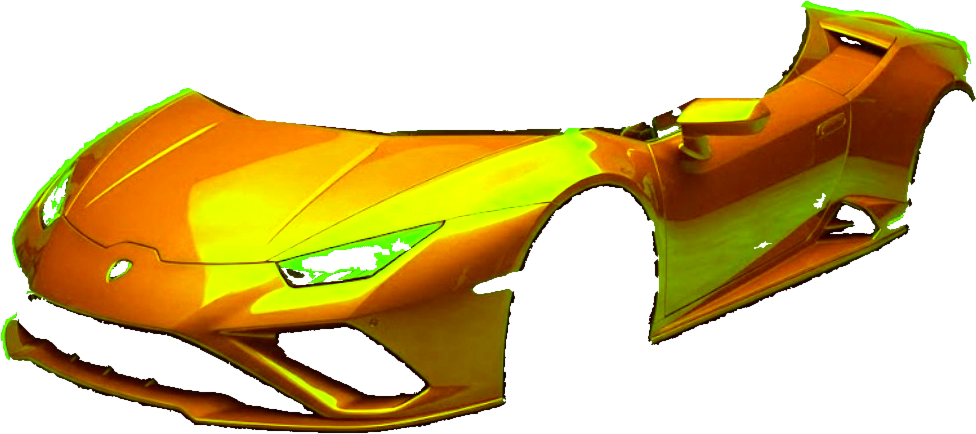
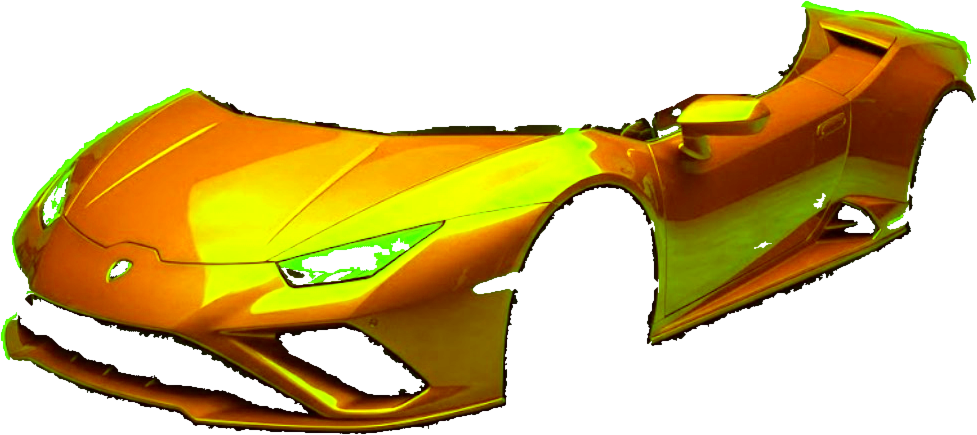
Wrap: Volvo XC40 as the SUV; clean Huracan windshield-base and mirror edges
Claude-Session: https://claude.ai/code/session_01TC8hHsQGEZ2GaHBM8k3cGS

diff --git a/main.js b/main.js
@@ -36,7 +36,7 @@ function arrowNav(buttons, select) {
 // box = where the shade layer sits in the photo: [x, y, width, height]; size defaults to 1200x900.
 // Bump ASSET_V whenever a photo or shade layer changes, so phones never pair a cached old
 // photo with a new shade layer (that is what makes the repaint look shifted).
-const ASSET_V = '20261109s';
+const ASSET_V = '20261109t';
 const toLin = v => Math.pow(v / 255, 2.2);
 const hexLin = h => { const n = parseInt(h.replace('#', ''), 16); return [n >> 16 & 255, n >> 8 & 255, n & 255].map(toLin); };
 const FIN = { gloss: [1, 1], satin: [0.8, 0.4], matte: [0.6, 0.12] };   // lighting contrast, shine kept
@@ -210,9 +210,9 @@ const wrapPaint = createPainter({
   view: document.getElementById('wrap-view'), img: document.getElementById('wrap-img'), canvas: document.getElementById('wrap-paint'),
   stage: document.getElementById('wrap-stage'), initial: 'sports', color: '#C8102E',
   vehicles: {
-    sports: { img: asset('wrap-sports.webp'), shade: asset('wrap-sports-shade.png'), box: [74, 219, 976, 434], size: [1117, 787], alt: 'Lamborghini Huracan with its body wrapped in the selected color' },
+    sports: { img: asset('wrap-sports.webp'), shade: asset('wrap-sports-shade.png'), box: [74, 219, 977, 435], size: [1117, 787], alt: 'Lamborghini Huracan with its body wrapped in the selected color' },
     sedan: { img: asset('wrap-sedan.webp'), shade: asset('wrap-sedan-shade.png'), box: [21, 544, 1263, 380], size: [1320, 1158], alt: 'Porsche sport sedan with its body wrapped in the selected color' },
-    suv: { img: asset('wrap-suv.webp'), shade: asset('wrap-suv-shade.png'), box: [63, 181, 802, 388], size: [939, 759], alt: 'Range Rover Sport SUV with its body wrapped in the selected color' },
+    suv: { img: asset('wrap-suv.webp'), shade: asset('wrap-suv-shade.png'), box: [49, 137, 807, 295], size: [958, 574], alt: 'Volvo XC40 SUV with its body wrapped in the selected color' },
     truck: { img: asset('wrap-truck.webp'), shade: asset('wrap-truck-shade.png'), box: [35, 117, 1243, 496], size: [1320, 812], alt: 'Ford F-250 pickup with its body wrapped in the selected color' }
   }
 });

diff --git a/index.html b/index.html
@@ -108,7 +108,7 @@
       <div class="wrap-tool">
         <div class="caliper-view wrap-view" id="wrap-view">
           <div class="cv-stage" id="wrap-stage">
-            <img id="wrap-img" src="assets/img/wrap-sports.webp?v=20261109s" alt="Lamborghini Huracan with its body wrapped in the selected color" width="1117" height="787" loading="lazy">
+            <img id="wrap-img" src="assets/img/wrap-sports.webp?v=20261109t" alt="Lamborghini Huracan with its body wrapped in the selected color" width="1117" height="787" loading="lazy">
             <canvas id="wrap-paint" width="1149" height="342" aria-hidden="true"></canvas>
           </div>
           <p class="cv-photo-note">Real car, rewrapped live</p>
@@ -161,7 +161,7 @@
       <div class="caliper-view" id="caliper-view" data-mode="photo">
         <canvas id="caliper-canvas" tabindex="0" role="img" aria-label="3D model of a wheel and brake caliper in the selected color. Drag, or use the arrow keys, to change the angle."></canvas>
         <div class="cv-stage" id="cv-stage">
-          <img id="caliper-img" src="assets/img/caliper-sports.webp?v=20261109s" alt="Black wheel on a red sports car" width="1200" height="900" loading="lazy">
+          <img id="caliper-img" src="assets/img/caliper-sports.webp?v=20261109t" alt="Black wheel on a red sports car" width="1200" height="900" loading="lazy">
           <canvas id="caliper-paint" width="193" height="347" aria-hidden="true"></canvas>
         </div>
         <p class="cv-hint" aria-hidden="true"><span class="cv-hint-icon"></span>Drag to rotate</p>
@@ -469,6 +469,6 @@
 </footer>
 
 <script src="caliper-3d.js?v=202611091725" defer></script>
-<script src="main.js?v=202611092220" defer></script>
+<script src="main.js?v=202611092230" defer></script>
 </body>
 </html>
